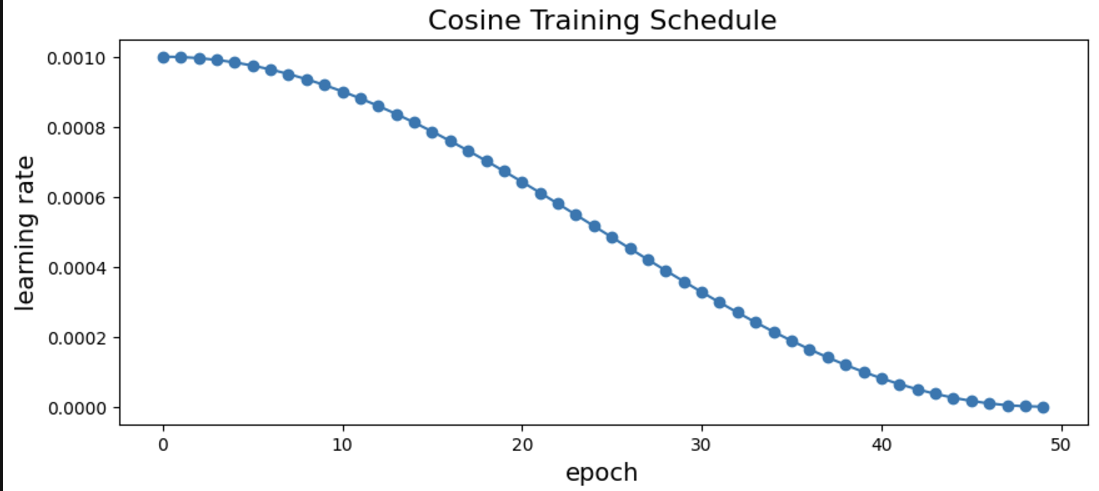
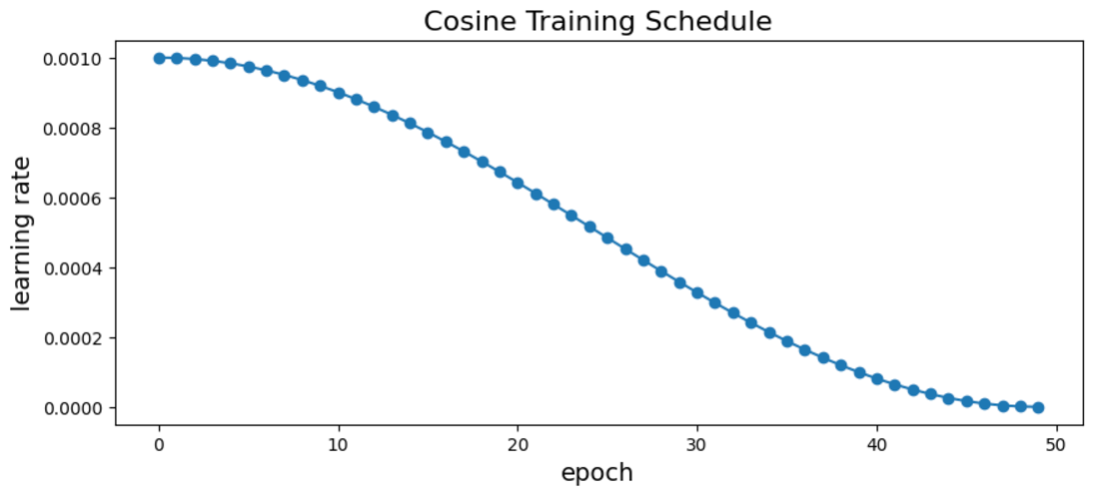
add results

Changed region(s): [[0.0, 0.0, 0.9945, 0.9165], [0.5594, 0.4888, 0.6527, 0.611], [0.4973, 0.947, 0.5905, 0.9776]]

diff --git a/manuscript/slides.tex b/manuscript/slides.tex
@@ -254,6 +254,26 @@ where $Z_i$ is the normalization constant.
 \end{frame}
 
 
+\begin{frame}{Mean Field Inference in HCRF}
+\centering
+\resizebox{.95\textwidth}{!}{
+\begin{algorithm}[H]
+\caption{Mean-field inference in fully-connected CRF}
+\KwIn{$Q_i(h_i) \gets U_i(h_i), \; i = 1, 2, \dots, N$
+\tcp*[f]{Initialize $Q(h)$}}
+\While{not reach max iteration number}{
+$\hat{Q}_i^{(m)}(h_i) \gets \sum_{j \neq i} k^{(m)}(f_i, f_j) Q_j(h_i)$ for all
+$m$ \tcp*[f]{Message Passing}\;
+$\tilde{Q}_i^{(m)}(h_i) \gets \sum_{l \in \mathcal{L}} \mu^{(m)}(h_i, l)
+\sum_m \omega^{(m)} \hat{Q}_i^{(m)}(l)$ \tcp*[f]{Compatibility Transform}\;
+$Q_i(h_i) \gets \exp \{\phi(h_j, x_j; \omega) + \varphi(y, h_j, x_j; \delta)
+- \tilde{Q}_i(x_i)\}$ \tcp*[f]{Local Update}\;
+Normalize $Q_i(h_i)$\;
+}
+\end{algorithm}}
+\end{frame}
+
+
 %\begin{frame}{Model Structure}
 %\begin{small}
 %\begin{itemize}
@@ -417,6 +437,65 @@ where $spec(\cdot)$ is a custom function implemented using the \pkg{pywt} and
 \includegraphics[width=.55\textwidth]{EEG_Spectrogram}
 \end{figure}
 \end{frame}
+
+
+\begin{frame}
+\frametitle{Training Schedule}
+The loss function was designed as Kullback-Leibler (KL) divergence.
+\begin{figure}[tbp]
+\centering
+\includegraphics[width=.55\textwidth]{pretrain}
+\vspace{-.3em}
+\caption{Pre-train UNet learning rate schedule.}
+\end{figure}
+\vspace{-1.2em}
+\begin{figure}[tbp]
+\centering
+\includegraphics[width=.55\textwidth]{finetune}
+\vspace{-.3em}
+\caption{Fine tuning HCRF learning rate schedule.}
+\end{figure}
+\end{frame}
+
+
+
+\section{Results and Conclusion}
+
+
+\begin{frame}{Results}
+We evaluate our model by 5 fold cross-validation.
+\bigskip
+\begin{itemize}
+\item Our model achieves a \textbf{0.4992} KL-divergence.
+\bigskip
+\item The baseline model from Kaggle using EfficientNet obtains a 0.59
+cross-validation KL-divergence.
+\end{itemize}
+\bigskip
+However, there still are many teams on Kaggle have achieved even lower
+KL-divergence scores (0.2-0.3) by leveraging the power of large models
+like Vision Transformers (ViT).
+\end{frame}
+
+
+\begin{frame}{Conclusion}
+\begin{itemize}
+\item We build a Hidden Conditional Random Fields for EEG based Spectrograms
+image classification.
+\bigskip
+\item The latent CRF layer is desgined to capture the latent segmentation
+information of the output of Neural Networks.
+\bigskip
+\item A variational mean-field inference scheme is used to address the
+posterior distribution.
+\bigskip
+\item We integrate the Unet and HiddenCRF into an end-to-end training structure.
+The Neural Networks feature learning and variational inference can be
+accelerated jointly by GPUs.
+\end{itemize}
+\end{frame}
+
+
 
 
 
